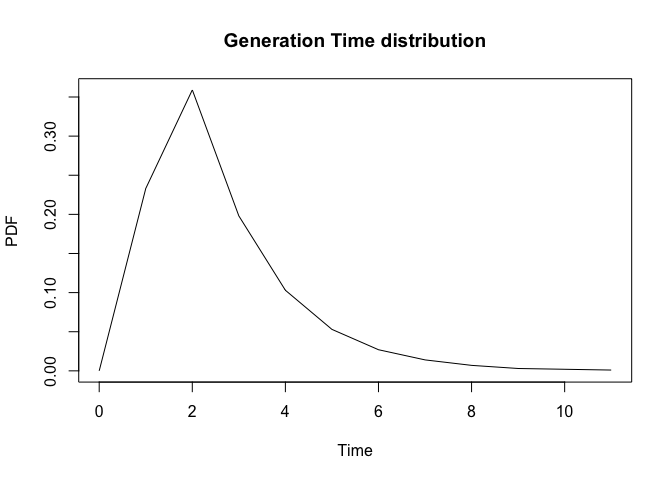
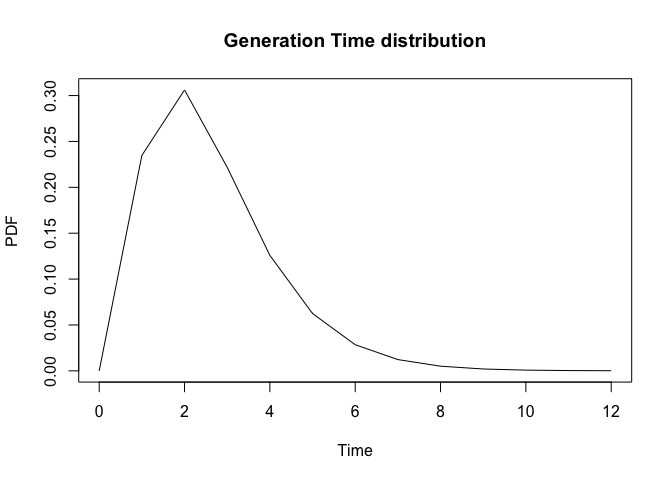
commit

diff --git a/Package_Estimations.md b/Package_Estimations.md
@@ -618,7 +618,7 @@ scale_earlyR <- 0.865384615384615
 
 # Generate a sequence of values
 
-x_earlyR <- seq(0, 10, length.out = 7)
+x_earlyR <- seq(0, 10)
 
 # Calculate the density of the gamma distribution
 
@@ -748,7 +748,7 @@ scale_epitrix <- 0.865384615384615
 
 # Define a range of values
 
-x_epitrix <- seq(0, 10, by = 2) 
+x_epitrix <- seq(0, 10)
 
 # Compute the density of the gamma distribution
 
@@ -756,7 +756,7 @@ density <- dgamma(x_epitrix, shape = shape_epitrix, scale = scale_epitrix)
 
 # Plot the distribution
 
-epitrix_si <- plot(x_epitrix, density, type = "l", lwd = 2,
+epitrix_si <- plot(x_epitrix, density, type = "l",
      xlab = "Time", ylab = "Density",
 )
 ```
@@ -836,7 +836,7 @@ si_data <- data.frame(si_distr = res_parametric_si$si_distr[0:11],
 #turn epitrix SI into dataframe
 
 time_values_epitrix <- 0:10
-gamma_values_epitrix <- dgamma(time_values_epitrix, shape = 3.00444444444445, scale = 0.865384615384615)
+gamma_values_epitrix <- dgamma(time_values_epitrix, shape = 3.004444, scale = 0.8653846)
 
 dist_gi_data_epitrix <- data.frame(time = time_values_epitrix, gi_distr = gamma_values_epitrix)
 
@@ -892,14 +892,16 @@ Flu2009$si_distr
     ##  [1] 0.000 0.233 0.359 0.198 0.103 0.053 0.027 0.014 0.007 0.003 0.002 0.001
 
 ``` r
-GT.chld.hsld1<-generation.time("empirical", c(0.000,0.233,0.359,0.198,0.103,0.053,0.027,0.014,0.007,0.003,0.002,0.001))
+GT.chld.hsld1<-generation.time("gamma", c(2.6, 1.5))
 
 GT.chld.hsld1
 ```
 
     ## Discretized Generation Time distribution
-    ## mean: 2.596 , sd: 1.534531 
-    ##  [1] 0.000 0.233 0.359 0.198 0.103 0.053 0.027 0.014 0.007 0.003 0.002 0.001
+    ## mean: 2.656065 , sd: 1.490568 
+    ##  [1] 0.0000000000 0.2347607172 0.3061130999 0.2217949514 0.1258257345
+    ##  [6] 0.0624515217 0.0284937595 0.0122689922 0.0050642269 0.0020240933
+    ## [11] 0.0007887430 0.0003011238 0.0001130366
 
 ``` r
 plot(GT.chld.hsld1)
@@ -1044,8 +1046,8 @@ si_data <- data.frame(si_distr = res_parametric_si$si_distr[0:11],
 
 #turn R0 SI into dataframe
 
-mean_gt_R0 <- 2.596
-sd_gt_R0 <- 1.534531
+mean_gt_R0 <- 2.656065
+sd_gt_R0 <- 1.490568 
 
 shape_R0 <- (mean_gt_R0 / sd_gt_R0)^2
 scale_R0 <- (sd_gt_R0^2) / mean_gt_R0
@@ -1186,7 +1188,7 @@ rate_epinow <- 1.2
 max_x_epinow <- 11
 
 # Generate data for gamma distribution
-x_epinow <- seq(0, max_x_epinow, length.out = 7)
+x_epinow <- seq(0, max_x_epinow)
 y_epinow <- dgamma(x_epinow, shape = shape_epinow, rate = rate_epinow)
 
 # Create a data frame for plotting
@@ -1240,11 +1242,11 @@ res_epinow <- epinow(reported_cases_epinow,
 
     ## Logging threshold set at INFO for the EpiNow2 logger
 
-    ## Writing EpiNow2 logs to the console and: /var/folders/kz/vb4s2bzd5m59rdxjpt9vyk_h0000gn/T//RtmprrO95S/regional-epinow/2009-05-28.log
+    ## Writing EpiNow2 logs to the console and: /var/folders/kz/vb4s2bzd5m59rdxjpt9vyk_h0000gn/T//RtmpeYplLb/regional-epinow/2009-05-28.log
 
     ## Logging threshold set at INFO for the EpiNow2.epinow logger
 
-    ## Writing EpiNow2.epinow logs to the console and: /var/folders/kz/vb4s2bzd5m59rdxjpt9vyk_h0000gn/T//RtmprrO95S/epinow/2009-05-28.log
+    ## Writing EpiNow2.epinow logs to the console and: /var/folders/kz/vb4s2bzd5m59rdxjpt9vyk_h0000gn/T//RtmpeYplLb/epinow/2009-05-28.log
 
 ``` r
 res_epinow$plots$R
@@ -1313,7 +1315,7 @@ summary(LPSfit)
     ## Estimation of the reproduction number with Laplacian-P-splines 
     ## -------------------------------------------------------------- 
     ## Total number of days:          32 
-    ## Routine time (seconds):        0.043 
+    ## Routine time (seconds):        0.042 
     ## Method:                        Maximum a posteriori (MAP) 
     ## Hyperparam. optim method:      Nelder-Mead 
     ## Hyperparam. optim convergence: TRUE 
@@ -1402,19 +1404,20 @@ plot_all
 
 ![](Package_Estimations_files/figure-gfm/unnamed-chunk-64-1.png)<!-- -->
 
-NOTE: Notice that the SI from Epitrix doesn’t appear on the graph.
-Here’s why:
+NOTE: Notice that the SI from Epitrix and earlyR doesn’t appear on the
+graph. Here’s why:
 
 ``` r
 plot_all_test3 <- ggplot() +
   geom_line(data = si_data, aes(x = time, y = si_distr, color = "EpiEstim"), size = 1) +
   geom_line(data = dist_gi_data_epitrix, aes(x = time_values_epitrix, y = gamma_values_epitrix, color = "epitrix"), size = 1) +
+  geom_line(data = si_df_earlyR, aes(x = x_earlyR, y = y_earlyR, color = "earlyR"), size = 1) +
   geom_line(data = epiLPS_data, aes(x = time_values_LPS, y = gamma_values_LPS, color = "EpiLPS"), size = 1) +
   scale_color_manual(name = "Legend", values = c("EpiEstim" = "blue4", 
                                                 
                                                 
                                                  "epitrix" = "gold1",
-                                               
+                                                "earlyR" = "seagreen2",
                                               
                                                  "EpiLPS" = "cornflowerblue")) +
   
